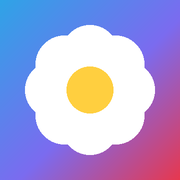
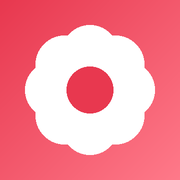
Add files via upload

diff --git a/style.css b/style.css
@@ -1,32 +1,32 @@
 @import url("https://fonts.googleapis.com/css2?family=Zen+Maru+Gothic:wght@500;700;900&display=swap");
-:root{--bg:#f2faff;--card:#fff;--text:#1b2a3a;--sub:#5d6f80;--accent:#2fa4e7;--accent2:#ffcf3f;--red:#e8384f;--line:#d9ebf6;--navbg:rgba(242,250,255,.88);--shadow:0 8px 24px rgba(47,164,231,.14);box-sizing:border-box;padding-top:env(safe-area-inset-top,0px);padding-bottom:env(safe-area-inset-bottom,0px);color-scheme:light}
-@media (prefers-color-scheme:dark){:root{--bg:#0e1722;--card:#16222f;--text:#e9f2fa;--sub:#9db1c3;--accent:#5bbcf2;--line:#26384a;--navbg:rgba(14,23,34,.88);--shadow:0 8px 24px rgba(0,0,0,.35);color-scheme:dark}}
+
+:root{--bg:#fff;--card:#fff;--text:#222;--sub:#777;--accent:#e8384f;--accent2:#ffe9ec;--red:#e8384f;--line:#f3dfe2;--soft:#fff6f7;--navbg:rgba(255,255,255,.92);--shadow:0 6px 20px rgba(232,56,79,.10);box-sizing:border-box;padding-top:env(safe-area-inset-top,0px);padding-bottom:env(safe-area-inset-bottom,0px);color-scheme:light}
 html{scroll-padding-top:env(safe-area-inset-top,0px)}
 *{box-sizing:border-box}
-body{margin:0;color:var(--text);font-family:"Zen Maru Gothic","Hiragino Maru Gothic ProN","Hiragino Sans","Noto Sans JP",system-ui,sans-serif;line-height:1.8;background:var(--bg) radial-gradient(circle at 10% -5%,rgba(47,164,231,.25),transparent 42%) no-repeat,radial-gradient(circle at 95% 8%,rgba(232,56,79,.13),transparent 36%) no-repeat}
+body{margin:0;color:var(--text);font-family:"Zen Maru Gothic","Hiragino Maru Gothic ProN","Hiragino Sans","Noto Sans JP",system-ui,sans-serif;line-height:1.8;background:#fff radial-gradient(circle at 92% -4%,rgba(232,56,79,.10),transparent 40%) no-repeat}
 .wrap{max-width:780px;margin:0 auto;padding:0 18px 56px}
 header{text-align:center;padding:52px 0 14px}
-.badge{display:inline-block;background:linear-gradient(90deg,var(--accent),#7b6cf0);color:#fff;font-size:.8rem;font-weight:700;padding:3px 16px;border-radius:99px;letter-spacing:.12em}
+.badge{display:inline-block;background:var(--accent);color:#fff;font-size:.8rem;font-weight:700;padding:3px 16px;border-radius:99px;letter-spacing:.12em}
 .kana{color:var(--sub);margin:.6em 0 0;letter-spacing:.35em;font-size:.9rem}
-h1{font-size:clamp(2.8rem,12vw,4.4rem);font-weight:900;margin:.05em 0 .1em;letter-spacing:.08em;line-height:1.15;background:linear-gradient(90deg,var(--accent),#7b6cf0 55%,var(--red));-webkit-background-clip:text;background-clip:text;color:transparent}
+h1{font-size:clamp(2.8rem,12vw,4.4rem);font-weight:900;margin:.05em 0 .1em;letter-spacing:.08em;line-height:1.15;background:linear-gradient(90deg,#e8384f,#ff7a8a);-webkit-background-clip:text;background-clip:text;color:transparent}
 .tag{margin:.2em 0 0;font-size:1.05rem;font-weight:700}
 .facts{display:flex;flex-wrap:wrap;gap:8px;justify-content:center;margin:18px 0 6px}
 .facts span{background:var(--card);border:1px solid var(--line);border-radius:99px;padding:3px 14px;font-size:.88rem;box-shadow:var(--shadow)}
 nav{position:sticky;top:env(safe-area-inset-top,0px);z-index:20;display:flex;gap:8px;overflow-x:auto;justify-content:safe center;padding:10px 2px;margin:8px 0 0;background:var(--navbg);-webkit-backdrop-filter:blur(10px);backdrop-filter:blur(10px)}
 nav a{white-space:nowrap;color:var(--text);text-decoration:none;font-weight:700;font-size:.9rem;background:var(--card);border:1px solid var(--line);padding:6px 16px;border-radius:99px}
 nav a:hover{border-color:var(--accent)}
-nav a.on{background:linear-gradient(90deg,var(--accent),#7b6cf0);border-color:transparent;color:#fff}
-section{background:var(--card);border-radius:24px;padding:24px 22px 26px;margin-top:24px;box-shadow:var(--shadow)}
+nav a.on{background:var(--accent);border-color:transparent;color:#fff}
+section{background:var(--card);border:1px solid var(--line);border-radius:24px;padding:24px 22px 26px;margin-top:24px;box-shadow:var(--shadow)}
 h2{display:flex;align-items:center;gap:10px;margin:0 0 16px;font-size:1.3rem}
-h2::before{content:"";width:8px;height:1.3em;border-radius:99px;background:linear-gradient(var(--accent),var(--red))}
+h2::before{content:"";width:8px;height:1.3em;border-radius:99px;background:var(--accent)}
 h3{margin:22px 0 8px;font-size:1.02rem;color:var(--sub)}
 dl{display:grid;grid-template-columns:7.5em 1fr;gap:10px 12px;margin:0}
 dt{color:var(--sub);font-weight:700} dd{margin:0}
-.hero{background:linear-gradient(135deg,#1c6fd1,#7b4dff 58%,#e8384f);color:#fff;padding:26px 22px 28px;box-shadow:0 12px 30px rgba(123,77,255,.3)}
+.hero{background:linear-gradient(135deg,#e8384f,#ff6b7d);color:#fff;padding:26px 22px 28px;box-shadow:0 12px 30px rgba(232,56,79,.28)}
 .hero h2{display:block;font-size:2.2rem;font-weight:900;margin:.3em 0 .1em;letter-spacing:.06em}
 .hero h2::before{display:none}
 .hero p{margin:.3em 0}.hero .hs{opacity:.92;font-size:.92rem}
-.pill{display:inline-block;background:var(--accent2);color:#4a3a00;font-size:.72rem;font-weight:700;padding:1px 12px;border-radius:99px;letter-spacing:.1em;animation:pulse 2s infinite}
+.pill{display:inline-block;background:#fff;color:#e8384f;font-size:.72rem;font-weight:700;padding:1px 12px;border-radius:99px;letter-spacing:.1em;animation:pulse 2s infinite}
 @keyframes pulse{50%{transform:scale(1.07)}}
 .video{position:relative;width:100%;aspect-ratio:16/9;margin:16px 0 8px;border-radius:14px;overflow:hidden;background:#000}
 .video iframe{position:absolute;inset:0;width:100%;height:100%;border:0}
@@ -34,7 +34,7 @@ dt{color:var(--sub);font-weight:700} dd{margin:0}
 .hl a{color:#fff;text-decoration:none;border:1px solid rgba(255,255,255,.75);padding:6px 16px;border-radius:99px;font-size:.9rem;font-weight:700}
 .hl a:hover{background:rgba(255,255,255,.2)}
 .stickers{display:grid;grid-template-columns:repeat(auto-fit,minmax(150px,1fr));gap:14px}
-.sticker{background:var(--bg);border:2px dashed var(--line);border-radius:18px;padding:14px 12px;text-align:center;transition:.2s;transform:rotate(-1.5deg)}
+.sticker{background:var(--soft);border:2px dashed var(--line);border-radius:18px;padding:14px 12px;text-align:center;transition:.2s;transform:rotate(-1.5deg)}
 .sticker:nth-child(even){transform:rotate(1.5deg)}
 .sticker:hover{transform:rotate(0) translateY(-4px);border-color:var(--accent)}
 .sticker i{display:block;font-style:normal;font-size:2rem;line-height:1.2}
@@ -42,7 +42,7 @@ dt{color:var(--sub);font-weight:700} dd{margin:0}
 .sticker b{display:block;font-size:.98rem}
 .more{display:inline-block;margin-top:16px;color:var(--accent);font-weight:700;text-decoration:none}
 .tiles{display:grid;grid-template-columns:repeat(auto-fit,minmax(140px,1fr));gap:12px}
-.tile{display:block;text-decoration:none;color:var(--text);background:var(--bg);border-radius:18px;padding:16px;transition:.2s;border:1px solid var(--line)}
+.tile{display:block;text-decoration:none;color:var(--text);background:var(--soft);border-radius:18px;padding:16px;transition:.2s;border:1px solid var(--line)}
 .tile:hover{transform:translateY(-4px);border-color:var(--accent)}
 .tile i{display:block;font-style:normal;font-size:1.8rem}.tile b{display:block}.tile small{color:var(--sub)}
 .chips{display:flex;gap:8px;flex-wrap:wrap;margin-bottom:18px}
@@ -50,9 +50,9 @@ dt{color:var(--sub);font-weight:700} dd{margin:0}
 .chip[aria-pressed="true"]{background:var(--accent);border-color:var(--accent);color:#fff}
 ol.tl{list-style:none;margin:0;padding:0 0 0 18px;border-left:3px solid var(--line)}
 ol.tl li{position:relative;margin:0 0 20px;padding-left:14px}
-ol.tl li::before{content:"";position:absolute;left:-27px;top:.55em;width:13px;height:13px;border-radius:50%;background:linear-gradient(135deg,var(--accent),var(--red));border:3px solid var(--card)}
+ol.tl li::before{content:"";position:absolute;left:-27px;top:.55em;width:13px;height:13px;border-radius:50%;background:var(--accent);border:3px solid var(--card)}
 .date{font-size:.82rem;color:var(--sub)}
-.cat{font-size:.72rem;background:var(--accent2);color:#4a3a00;border-radius:6px;padding:0 7px;margin-left:6px;font-weight:700}
+.cat{font-size:.72rem;background:#ffe9ec;color:#e8384f;border-radius:6px;padding:0 7px;margin-left:6px;font-weight:700}
 .ttl{font-weight:700}.desc{font-size:.92rem;color:var(--sub);margin:2px 0 0}
 .item{padding:14px 0;border-bottom:1px dashed var(--line)}.item:last-child{border-bottom:0}
 .item a{color:var(--text);font-weight:700;text-decoration:none}.item a:hover{color:var(--accent)}

diff --git a/news.html b/news.html
@@ -1,5 +1,5 @@
 <!DOCTYPE html>
-<html lang="ja"><head><meta charset="utf-8"><meta name="viewport" content="width=device-width, initial-scale=1, viewport-fit=cover"><title>ニュース｜大野愛実 ファンサイト（非公式）</title><link rel="stylesheet" href="style.css"><link rel="manifest" href="manifest.json"><meta name="theme-color" content="#2fa4e7"><link rel="apple-touch-icon" href="apple-touch-icon.png"><meta name="apple-mobile-web-app-capable" content="yes"><meta name="mobile-web-app-capable" content="yes"><meta name="apple-mobile-web-app-title" content="まなみん"><meta name="apple-mobile-web-app-status-bar-style" content="default"></head><body><div class="wrap"><header><span class="badge">日向坂46 五期生</span><h1>ニュース</h1><p class="kana">大野愛実 非公式ファンサイト</p></header><nav><a href="index.html">ホーム</a><a href="profile.html">プロフィール</a><a href="schedule.html">スケジュール</a><a href="news.html" class="on">ニュース</a><a href="works.html">ワークス</a><a href="blog.html">ブログ</a></nav>
+<html lang="ja"><head><meta charset="utf-8"><meta name="viewport" content="width=device-width, initial-scale=1, viewport-fit=cover"><title>ニュース｜大野愛実 ファンサイト（非公式）</title><link rel="stylesheet" href="style.css"><link rel="manifest" href="manifest.json"><meta name="theme-color" content="#e8384f"><link rel="apple-touch-icon" href="apple-touch-icon.png"><meta name="apple-mobile-web-app-capable" content="yes"><meta name="mobile-web-app-capable" content="yes"><meta name="apple-mobile-web-app-title" content="まなみん"><meta name="apple-mobile-web-app-status-bar-style" content="default"></head><body><div class="wrap"><header><span class="badge">日向坂46 五期生</span><h1>ニュース</h1><p class="kana">大野愛実 非公式ファンサイト</p></header><nav><a href="index.html">ホーム</a><a href="profile.html">プロフィール</a><a href="schedule.html">スケジュール</a><a href="news.html" class="on">ニュース</a><a href="works.html">ワークス</a><a href="blog.html">ブログ</a></nav>
 <section><h2>ニュース</h2><p class="empty" style="margin-bottom:8px">日向坂46公式サイトのニュースのうち、大野愛実さんに関するものだけをまとめています。</p><div id="l"></div>
 <a class="more" href="https://www.hinatazaka46.com/s/official/news/list" target="_blank" rel="noopener">公式サイトのニュース一覧 →</a></section>
 <footer><p>このサイトは有志による非公式ファンサイトです。日向坂46・運営・所属事務所とは一切関係ありません。<br>掲載内容は報道・公式発表をもとにまとめたものです。正確な情報は公式サイトをご確認ください。</p></footer></div><script>var L="https://www.hinatazaka46.com/s/official/news/list",N=[

diff --git a/schedule.html b/schedule.html
@@ -1,5 +1,5 @@
 <!DOCTYPE html>
-<html lang="ja"><head><meta charset="utf-8"><meta name="viewport" content="width=device-width, initial-scale=1, viewport-fit=cover"><title>スケジュール｜大野愛実 ファンサイト（非公式）</title><link rel="stylesheet" href="style.css"><link rel="manifest" href="manifest.json"><meta name="theme-color" content="#2fa4e7"><link rel="apple-touch-icon" href="apple-touch-icon.png"><meta name="apple-mobile-web-app-capable" content="yes"><meta name="mobile-web-app-capable" content="yes"><meta name="apple-mobile-web-app-title" content="まなみん"><meta name="apple-mobile-web-app-status-bar-style" content="default"></head><body><div class="wrap"><header><span class="badge">日向坂46 五期生</span><h1>スケジュール</h1><p class="kana">大野愛実 非公式ファンサイト</p></header><nav><a href="index.html">ホーム</a><a href="profile.html">プロフィール</a><a href="schedule.html" class="on">スケジュール</a><a href="news.html">ニュース</a><a href="works.html">ワークス</a><a href="blog.html">ブログ</a></nav>
+<html lang="ja"><head><meta charset="utf-8"><meta name="viewport" content="width=device-width, initial-scale=1, viewport-fit=cover"><title>スケジュール｜大野愛実 ファンサイト（非公式）</title><link rel="stylesheet" href="style.css"><link rel="manifest" href="manifest.json"><meta name="theme-color" content="#e8384f"><link rel="apple-touch-icon" href="apple-touch-icon.png"><meta name="apple-mobile-web-app-capable" content="yes"><meta name="mobile-web-app-capable" content="yes"><meta name="apple-mobile-web-app-title" content="まなみん"><meta name="apple-mobile-web-app-status-bar-style" content="default"></head><body><div class="wrap"><header><span class="badge">日向坂46 五期生</span><h1>スケジュール</h1><p class="kana">大野愛実 非公式ファンサイト</p></header><nav><a href="index.html">ホーム</a><a href="profile.html">プロフィール</a><a href="schedule.html" class="on">スケジュール</a><a href="news.html">ニュース</a><a href="works.html">ワークス</a><a href="blog.html">ブログ</a></nav>
 <section><h2>今後の予定</h2><div id="up"></div></section><section><h2>最近の出来事</h2><div id="past"></div>
 <p class="empty" style="margin-top:12px">日向坂46公式サイトのニュースに載っている日付だけをまとめています。予定は <a href="https://www.hinatazaka46.com/" target="_blank" rel="noopener">公式サイト</a> でご確認ください。</p></section>
 <footer><p>このサイトは有志による非公式ファンサイトです。日向坂46・運営・所属事務所とは一切関係ありません。<br>掲載内容は報道・公式発表をもとにまとめたものです。正確な情報は公式サイトをご確認ください。</p></footer></div><script>var E=[

diff --git a/works.html b/works.html
@@ -1,5 +1,5 @@
 <!DOCTYPE html>
-<html lang="ja"><head><meta charset="utf-8"><meta name="viewport" content="width=device-width, initial-scale=1, viewport-fit=cover"><title>ワークス｜大野愛実 ファンサイト（非公式）</title><link rel="stylesheet" href="style.css"><link rel="manifest" href="manifest.json"><meta name="theme-color" content="#2fa4e7"><link rel="apple-touch-icon" href="apple-touch-icon.png"><meta name="apple-mobile-web-app-capable" content="yes"><meta name="mobile-web-app-capable" content="yes"><meta name="apple-mobile-web-app-title" content="まなみん"><meta name="apple-mobile-web-app-status-bar-style" content="default"></head><body><div class="wrap"><header><span class="badge">日向坂46 五期生</span><h1>ワークス</h1><p class="kana">大野愛実 非公式ファンサイト</p></header><nav><a href="index.html">ホーム</a><a href="profile.html">プロフィール</a><a href="schedule.html">スケジュール</a><a href="news.html">ニュース</a><a href="works.html" class="on">ワークス</a><a href="blog.html">ブログ</a></nav><section><h2>楽曲</h2>
+<html lang="ja"><head><meta charset="utf-8"><meta name="viewport" content="width=device-width, initial-scale=1, viewport-fit=cover"><title>ワークス｜大野愛実 ファンサイト（非公式）</title><link rel="stylesheet" href="style.css"><link rel="manifest" href="manifest.json"><meta name="theme-color" content="#e8384f"><link rel="apple-touch-icon" href="apple-touch-icon.png"><meta name="apple-mobile-web-app-capable" content="yes"><meta name="mobile-web-app-capable" content="yes"><meta name="apple-mobile-web-app-title" content="まなみん"><meta name="apple-mobile-web-app-status-bar-style" content="default"></head><body><div class="wrap"><header><span class="badge">日向坂46 五期生</span><h1>ワークス</h1><p class="kana">大野愛実 非公式ファンサイト</p></header><nav><a href="index.html">ホーム</a><a href="profile.html">プロフィール</a><a href="schedule.html">スケジュール</a><a href="news.html">ニュース</a><a href="works.html" class="on">ワークス</a><a href="blog.html">ブログ</a></nav><section><h2>楽曲</h2>
 <div class="item"><div class="date">2025-05-21 収録</div><div class="ttl">ジャーマンアイリス</div><p class="desc">14thシングル「Love yourself!」収録の五期生楽曲。センターを担当。</p></div>
 <div class="item"><div class="date">2026-01-28 発売</div><div class="ttl">クリフハンガー</div><p class="desc">16thシングル表題曲。五期生として初めてセンターを務めました。</p></div></section>
 <section><h2>ドラマ・映像</h2>

diff --git a/blog.html b/blog.html
@@ -1,5 +1,5 @@
 <!DOCTYPE html>
-<html lang="ja"><head><meta charset="utf-8"><meta name="viewport" content="width=device-width, initial-scale=1, viewport-fit=cover"><title>ブログ｜大野愛実 ファンサイト（非公式）</title><link rel="stylesheet" href="style.css"><link rel="manifest" href="manifest.json"><meta name="theme-color" content="#2fa4e7"><link rel="apple-touch-icon" href="apple-touch-icon.png"><meta name="apple-mobile-web-app-capable" content="yes"><meta name="mobile-web-app-capable" content="yes"><meta name="apple-mobile-web-app-title" content="まなみん"><meta name="apple-mobile-web-app-status-bar-style" content="default"></head><body><div class="wrap"><header><span class="badge">日向坂46 五期生</span><h1>ブログ</h1><p class="kana">大野愛実 非公式ファンサイト</p></header><nav><a href="index.html">ホーム</a><a href="profile.html">プロフィール</a><a href="schedule.html">スケジュール</a><a href="news.html">ニュース</a><a href="works.html">ワークス</a><a href="blog.html" class="on">ブログ</a></nav>
+<html lang="ja"><head><meta charset="utf-8"><meta name="viewport" content="width=device-width, initial-scale=1, viewport-fit=cover"><title>ブログ｜大野愛実 ファンサイト（非公式）</title><link rel="stylesheet" href="style.css"><link rel="manifest" href="manifest.json"><meta name="theme-color" content="#e8384f"><link rel="apple-touch-icon" href="apple-touch-icon.png"><meta name="apple-mobile-web-app-capable" content="yes"><meta name="mobile-web-app-capable" content="yes"><meta name="apple-mobile-web-app-title" content="まなみん"><meta name="apple-mobile-web-app-status-bar-style" content="default"></head><body><div class="wrap"><header><span class="badge">日向坂46 五期生</span><h1>ブログ</h1><p class="kana">大野愛実 非公式ファンサイト</p></header><nav><a href="index.html">ホーム</a><a href="profile.html">プロフィール</a><a href="schedule.html">スケジュール</a><a href="news.html">ニュース</a><a href="works.html">ワークス</a><a href="blog.html" class="on">ブログ</a></nav>
 <section><h2>大野愛実 公式ブログ</h2>
 <p>日向坂46公式サイトのブログです。記事はこちらから公式サイトで読めます。</p>
 <div class="links">

diff --git a/profile.html b/profile.html
@@ -1,5 +1,5 @@
 <!DOCTYPE html>
-<html lang="ja"><head><meta charset="utf-8"><meta name="viewport" content="width=device-width, initial-scale=1, viewport-fit=cover"><title>プロフィール｜大野愛実 ファンサイト（非公式）</title><link rel="stylesheet" href="style.css"><link rel="manifest" href="manifest.json"><meta name="theme-color" content="#2fa4e7"><link rel="apple-touch-icon" href="apple-touch-icon.png"><meta name="apple-mobile-web-app-capable" content="yes"><meta name="mobile-web-app-capable" content="yes"><meta name="apple-mobile-web-app-title" content="まなみん"><meta name="apple-mobile-web-app-status-bar-style" content="default"></head><body><div class="wrap"><header><span class="badge">日向坂46 五期生</span><h1>プロフィール</h1><p class="kana">大野愛実 非公式ファンサイト</p></header><nav><a href="index.html">ホーム</a><a href="profile.html" class="on">プロフィール</a><a href="schedule.html">スケジュール</a><a href="news.html">ニュース</a><a href="works.html">ワークス</a><a href="blog.html">ブログ</a></nav>
+<html lang="ja"><head><meta charset="utf-8"><meta name="viewport" content="width=device-width, initial-scale=1, viewport-fit=cover"><title>プロフィール｜大野愛実 ファンサイト（非公式）</title><link rel="stylesheet" href="style.css"><link rel="manifest" href="manifest.json"><meta name="theme-color" content="#e8384f"><link rel="apple-touch-icon" href="apple-touch-icon.png"><meta name="apple-mobile-web-app-capable" content="yes"><meta name="mobile-web-app-capable" content="yes"><meta name="apple-mobile-web-app-title" content="まなみん"><meta name="apple-mobile-web-app-status-bar-style" content="default"></head><body><div class="wrap"><header><span class="badge">日向坂46 五期生</span><h1>プロフィール</h1><p class="kana">大野愛実 非公式ファンサイト</p></header><nav><a href="index.html">ホーム</a><a href="profile.html" class="on">プロフィール</a><a href="schedule.html">スケジュール</a><a href="news.html">ニュース</a><a href="works.html">ワークス</a><a href="blog.html">ブログ</a></nav>
 <section><h2>基本情報</h2><dl>
 <dt>名前</dt><dd>大野愛実（おおの まなみ）</dd>
 <dt>愛称</dt><dd>まなみん</dd>

diff --git a/index.html b/index.html
@@ -1,5 +1,5 @@
 <!DOCTYPE html>
-<html lang="ja"><head><meta charset="utf-8"><meta name="viewport" content="width=device-width, initial-scale=1, viewport-fit=cover"><title>大野愛実 ファンサイト（非公式）｜日向坂46</title><link rel="stylesheet" href="style.css"><link rel="manifest" href="manifest.json"><meta name="theme-color" content="#2fa4e7"><link rel="apple-touch-icon" href="apple-touch-icon.png"><meta name="apple-mobile-web-app-capable" content="yes"><meta name="mobile-web-app-capable" content="yes"><meta name="apple-mobile-web-app-title" content="まなみん"><meta name="apple-mobile-web-app-status-bar-style" content="default"></head><body><div class="wrap">
+<html lang="ja"><head><meta charset="utf-8"><meta name="viewport" content="width=device-width, initial-scale=1, viewport-fit=cover"><title>大野愛実 ファンサイト（非公式）｜日向坂46</title><link rel="stylesheet" href="style.css"><link rel="manifest" href="manifest.json"><meta name="theme-color" content="#e8384f"><link rel="apple-touch-icon" href="apple-touch-icon.png"><meta name="apple-mobile-web-app-capable" content="yes"><meta name="mobile-web-app-capable" content="yes"><meta name="apple-mobile-web-app-title" content="まなみん"><meta name="apple-mobile-web-app-status-bar-style" content="default"></head><body><div class="wrap">
 <header><span class="badge">日向坂46 五期生</span><p class="kana">おおの まなみ</p><h1>大野愛実</h1><p class="tag">日向坂46への愛を、世界に届ける人。</p>
 <div class="facts"><span>🎂 2007.5.5</span><span>🗼 東京都</span><span>🎹 ピアノ</span><span>🔴🔴 レッド×レッド</span></div></header>
 <nav><a href="index.html" class="on">ホーム</a><a href="profile.html">プロフィール</a><a href="schedule.html">スケジュール</a><a href="news.html">ニュース</a><a href="works.html">ワークス</a><a href="blog.html">ブログ</a></nav>
